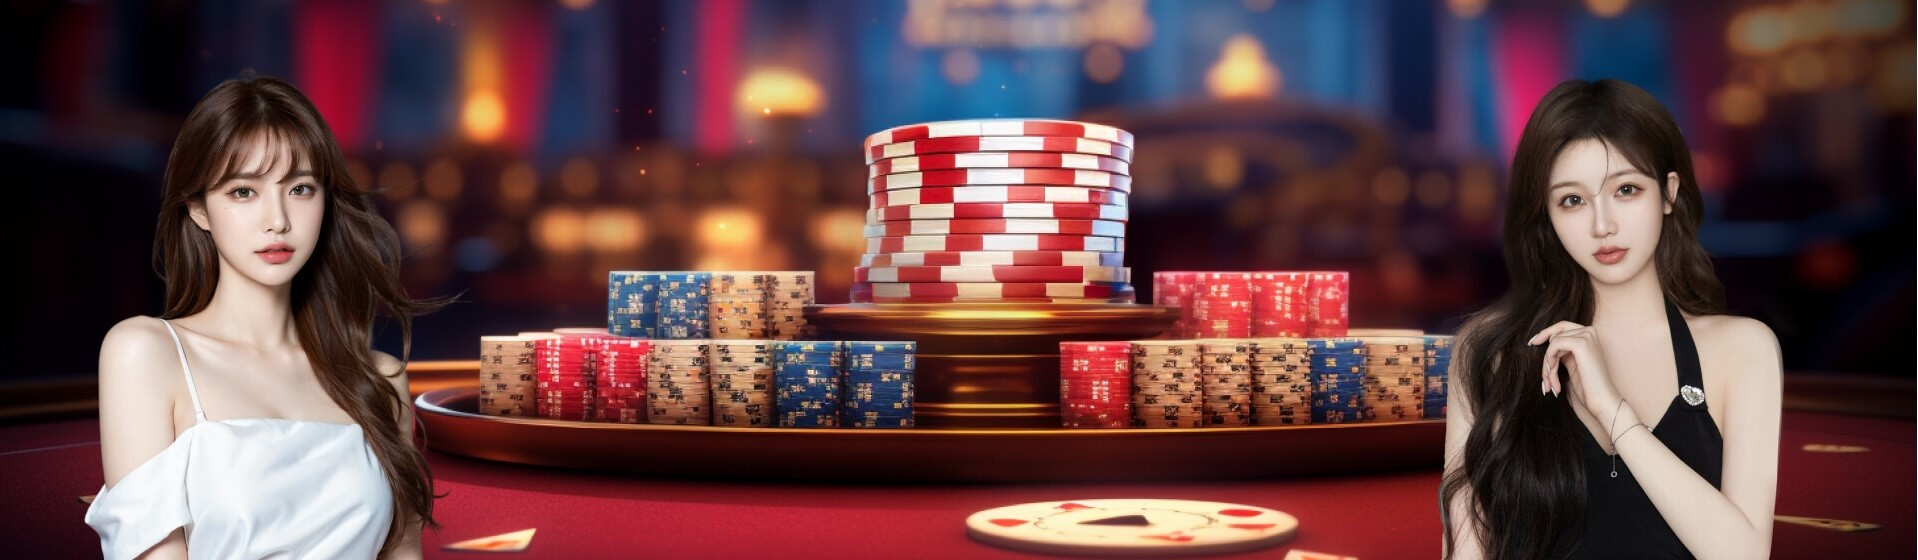
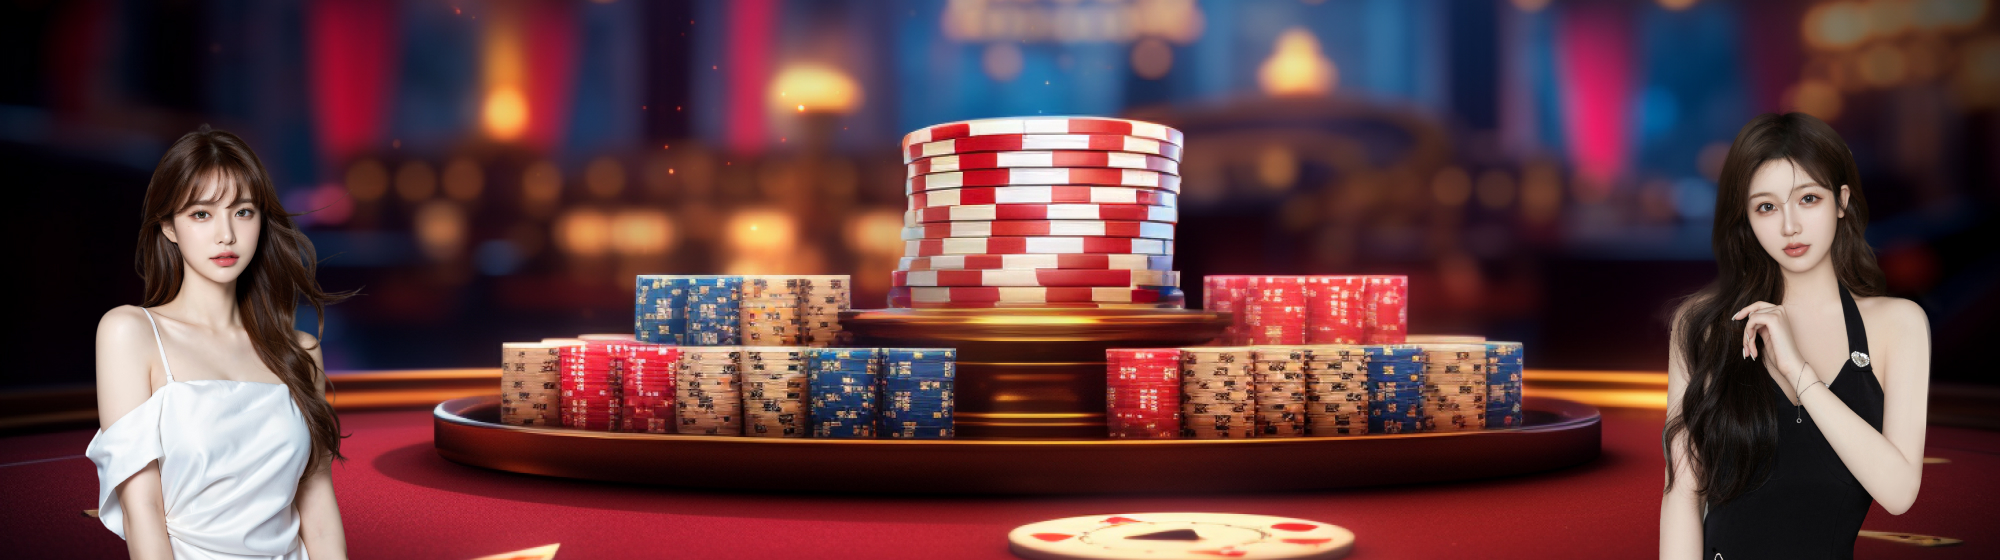
fix: [kr] Update Home page ui

diff --git a/kr-live-web/src/components/LoginAndRegister/LoginBar.vue b/kr-live-web/src/components/LoginAndRegister/LoginBar.vue
@@ -238,9 +238,9 @@ const iconInfo = reactive([
   overflow-x: auto;
 
   @media (min-width: 769px) {
-    width: 1400px;
+    width: 100%;
     flex-direction: row;
-    height: 80px;
+    height: 60px;
     display: flex;
   }
 }
@@ -251,7 +251,7 @@ const iconInfo = reactive([
   .left-content-items {
     width: 70%;
     height: 100%;
-    padding: 20px 10px;
+    padding: 20px 30px;
     display: flex;
     flex-direction: column;
     gap: 20px;

diff --git a/kr-live-web/src/components/home/RollingText.vue b/kr-live-web/src/components/home/RollingText.vue
@@ -99,6 +99,7 @@ const formatTransactionType = (transactionType) => {
     }
 
     .rolling-text-wrapper {
+        max-width: 1400px;
         display: flex;
         border-radius: 8px;
         background-color: #151324;

diff --git a/kr-live-web/src/layouts/MainLayout.vue b/kr-live-web/src/layouts/MainLayout.vue
@@ -581,7 +581,7 @@ svg path {
   @media (min-width: 1200px) {
     background: url("../assets/home/home-banner-xl.jpg") no-repeat top center;
     background-size: cover;
-    height: 480px;
+    height: 400px;
   }
 
 

diff --git a/kr-live-web/src/css/app.scss b/kr-live-web/src/css/app.scss
@@ -72,7 +72,7 @@ body {
 }
 
 .main-content {
-  max-width: 1400px;
+  max-width: 100%;
   margin: 0 auto;
   padding-bottom: 20px;
 }
